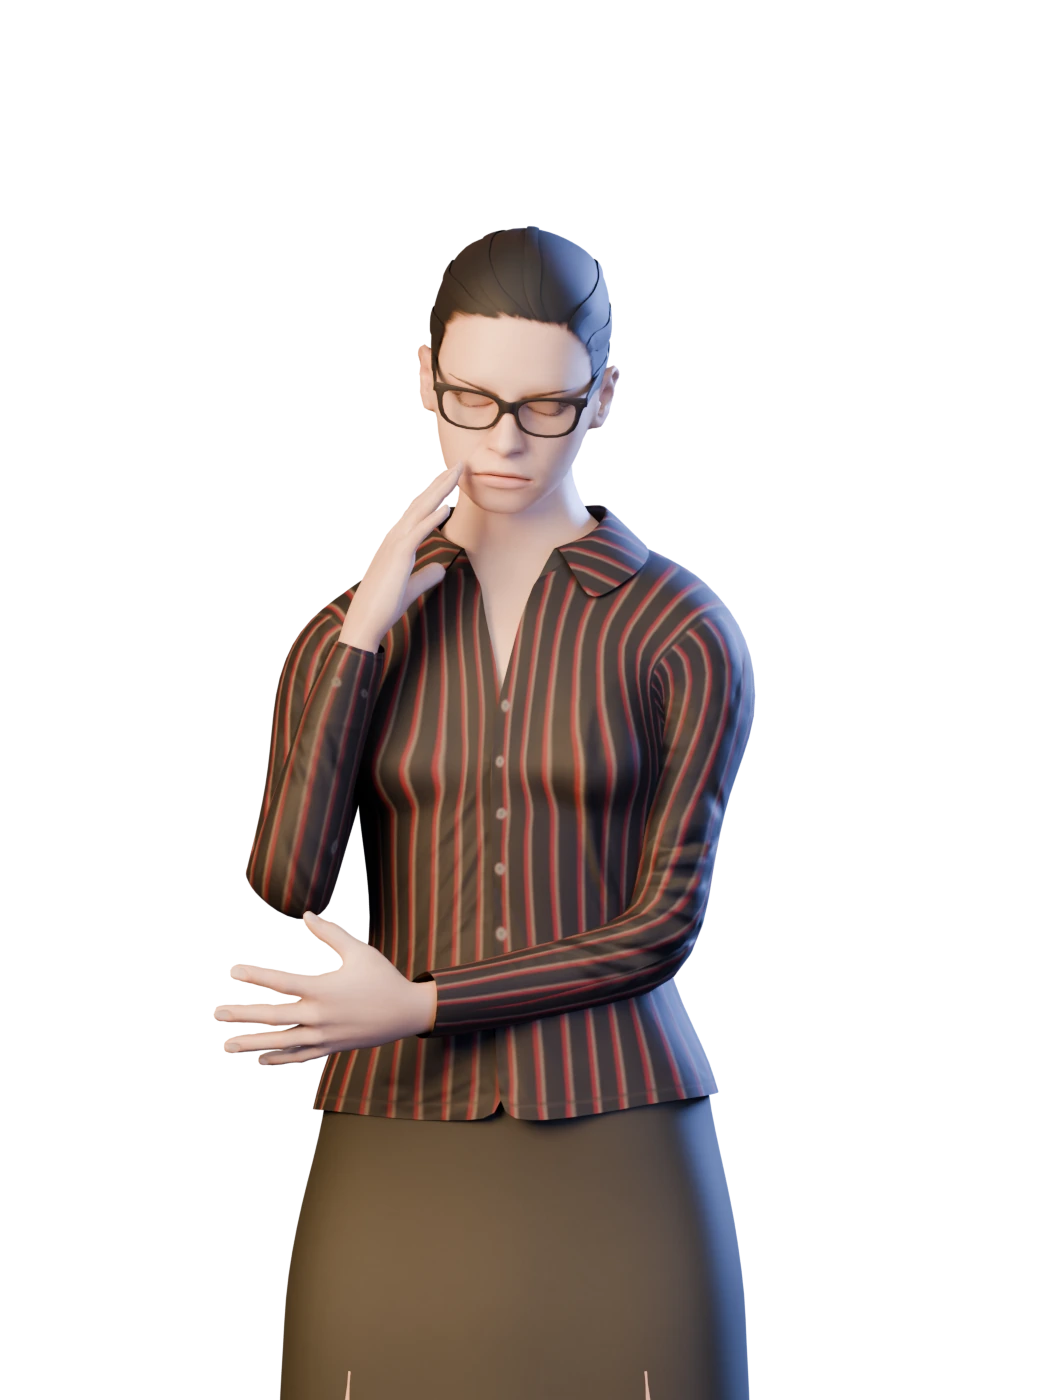
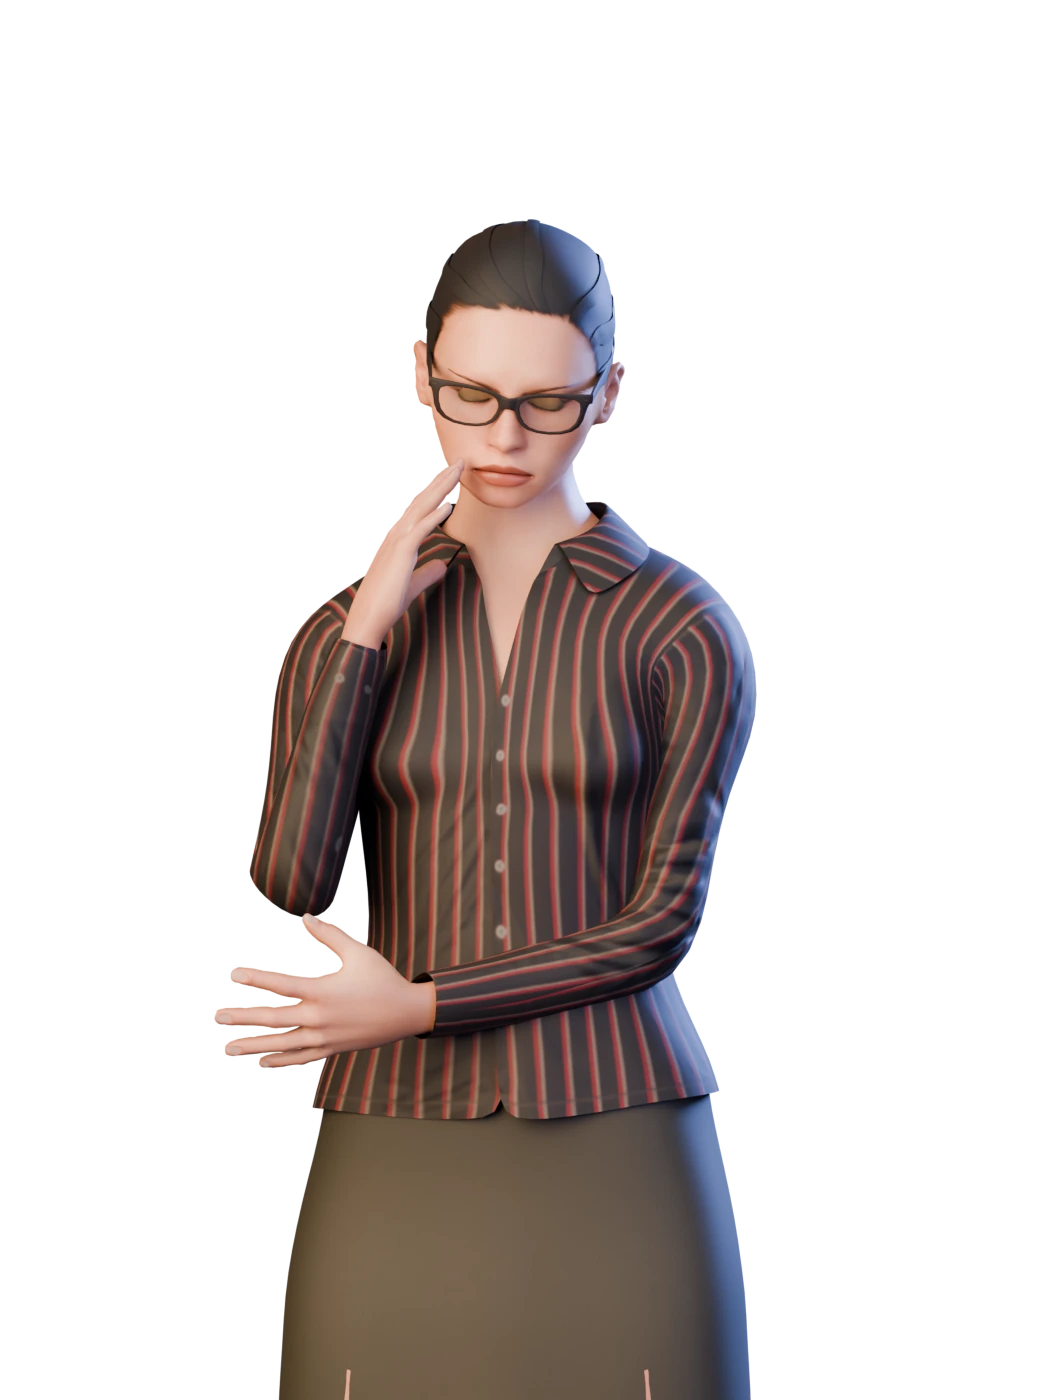
Make Elena more attractive: makeup skin, face sliders, softer light
A portrait test showed the stock MakeHuman face looked pale and flat.
Tweaking what we have works better than expected:

- Skin is now the CC0 toigo_light_skin_female_bronze_with_makeup, which
  gives warmer colour and defined lips.
- FACE_DETAILS nudges MakeHuman's face sliders (larger, lifted eyes, fuller
  lips, higher cheekbones, slimmer chin, oval head); they are applied
  before the assets are fitted so hair and glasses follow the new face.
- Key light is larger, warmer and softer.
- The hairstyle is a flag (--hair ponytail01|long01|bob02...), so the
  look can be changed without editing code.

Sprites re-rendered; the phone package was rebuilt (5.3 MB).

diff --git a/art/elena_real.py b/art/elena_real.py
@@ -22,6 +22,7 @@ import mpfb_helpers as mh  # noqa: E402
 args = lib.script_args()
 fast = "--fast" in args
 which = args[args.index("--pose") + 1] if "--pose" in args else "all"
+HAIR = args[args.index("--hair") + 1] if "--hair" in args else "ponytail01"      # ponytail01, long01, bob02, ...
 out_dir = args[args.index("--out-dir") + 1] if "--out-dir" in args else os.path.join(os.path.dirname(os.path.abspath(__file__)), "out")
 
 # Each pose: where the elbows and wrists go (character's own left arm = viewer's right, bones ".L"),
@@ -66,22 +67,32 @@ def aim(rig, bone_name, target):
     bpy.context.view_layer.update()
 
 
+# Face adjustments that make the stock MakeHuman face softer and more feminine: larger, lifted eyes, fuller lips,
+# higher cheekbones and a slimmer chin (values 0..1; "l-"/"r-" prefixes are the two sides).
+_both = lambda name, v: {"l-" + name: v, "r-" + name: v}
+FACE_DETAILS = {**_both("eye-height1-incr", 0.35), **_both("eye-height2-incr", 0.25), **_both("eye-bag-decr", 0.3),
+                **_both("eye-eyefold-angle-up", 0.2), "mouth-lowerlip-height-incr": 0.35, "mouth-upperlip-height-incr": 0.25,
+                "mouth-cupidsbow-incr": 0.3, "mouth-angles-up": 0.15, **_both("cheek-bones-incr", 0.4),
+                "chin-width-decr": 0.3, "chin-height-decr": 0.15, "head-oval": 0.35, "nose-width1-decr": 0.25}
+
+
 def build(pose):
     lib.reset()
     svc = mh.enable()
     human_svc, _target_svc, face_svc, _rig_svc = svc
-    base = mh.create_woman(svc)
-    mh.set_skin(svc, base, "middleage_caucasian_female")
+    base = mh.create_woman(svc, age=0.58)
+    svc[1].bulk_load_targets(base, [{"target": t, "value": v} for t, v in FACE_DETAILS.items()])   # before the assets, so they fit the new face
+    mh.set_skin(svc, base, "toigo_light_skin_female_bronze_with_makeup")
     rig = human_svc.add_builtin_rig(base, "default")           # the rig first, so every asset fitted next is rigged
     mh.add(svc, base, "eyes/high-poly/high-poly", "Eyes")
     mh.add(svc, base, "eyebrows/eyebrow004/eyebrow004", "Eyebrows")
     mh.add(svc, base, "eyelashes/eyelashes02/eyelashes02", "Eyelashes")
     mh.add(svc, base, "teeth/teeth_base/teeth_base", "Teeth")
-    mh.add(svc, base, "hair/ponytail01/ponytail01", "Hair")
+    mh.add(svc, base, "hair/%s/%s" % (HAIR, HAIR), "Hair")
     mh.add(svc, base, "clothes/female_elegantsuit01/female_elegantsuit01", "Clothes")
     mh.add(svc, base, "clothes/spamrakuen_sagerfrogs_glasses_01/spamrakuen_sagerfrogs_glasses_01", "Clothes")
     for o in mh.assets(base):
-        if "ponytail" in o.name:
+        if o.name == base.name + "." + HAIR:
             mh.tint_object(o, "#2a1810")           # blonde-to-dark-brown hair
         elif "glasses" in o.name:
             mh.tint_object(o, "#2b1f14")           # dark tortoise frames instead of the red ones
@@ -114,7 +125,7 @@ def build(pose):
 
 def light_and_render(name):
     lib.world_gradient("#222a42", "#141a2c", strength=0.55)
-    lib.light("key", "AREA", (-1.4, -1.7, 1.9), 190, "#ffcf9a", size=1.2, target=(0, 0, 1.4))
+    lib.light("key", "AREA", (-1.6, -2.0, 1.9), 260, "#ffd9b0", size=2.2, target=(0, 0, 1.4))      # large, warm, soft
     lib.light("rim", "AREA", (1.6, 1.3, 2.1), 330, "#7f9cff", size=0.9, target=(0, 0, 1.5))
     lib.light("fill", "AREA", (1.4, -2.0, 1.3), 55, "#a9b8ff", size=2.0, target=(0, 0, 1.3))
     lib.light("top", "AREA", (0, -1.2, 3.0), 45, "#ffffff", size=2.0, target=(0, 0, 1.3))

diff --git a/art/README.md b/art/README.md
@@ -66,6 +66,18 @@ After changing art, rebuild the browser package too, or the phone keeps the old 
   head tilt, and ARKit-style face weights (`browInnerUp`, `eyeBlinkLeft`, `mouthFrownRight`...). Adding an expression is
   adding an entry plus an `image elena <name>` line in `script.rpy`.
 
+## Changing Elena's look
+
+- **Hair:** `art/build.sh --hair long01` is not wired through; run the script directly:
+  `blender -b --factory-startup --python /abs/path/art/elena_real.py -- --hair long01` (also `bob02`, `short02`, ...;
+  see `ls /store/asset-library/mpfb/data/hair`). It is tinted dark brown in the script.
+- **Skin and makeup:** the skin is `toigo_light_skin_female_bronze_with_makeup` (CC0). Other skins are in
+  `mpfb/data/skins`; the `*_with_makeup` ones are warmer and more finished than the bare skins.
+- **Face:** `FACE_DETAILS` in `elena_real.py` nudges MakeHuman's face sliders (eye height, lips, cheekbones, chin,
+  head shape). Every slider is a file in the add-on's `data/targets/`; add an entry to try another.
+- A tweak test is cheap: it showed that makeup skin plus those slider changes make the stock face noticeably softer
+  and more feminine, and loose hair that frames the face is more flattering than a tight ponytail.
+
 ## MPFB gotchas (learned the hard way)
 
 - Create the human with `detailed_helpers=True`. The rig is fitted from the joint helper vertices; without them the
